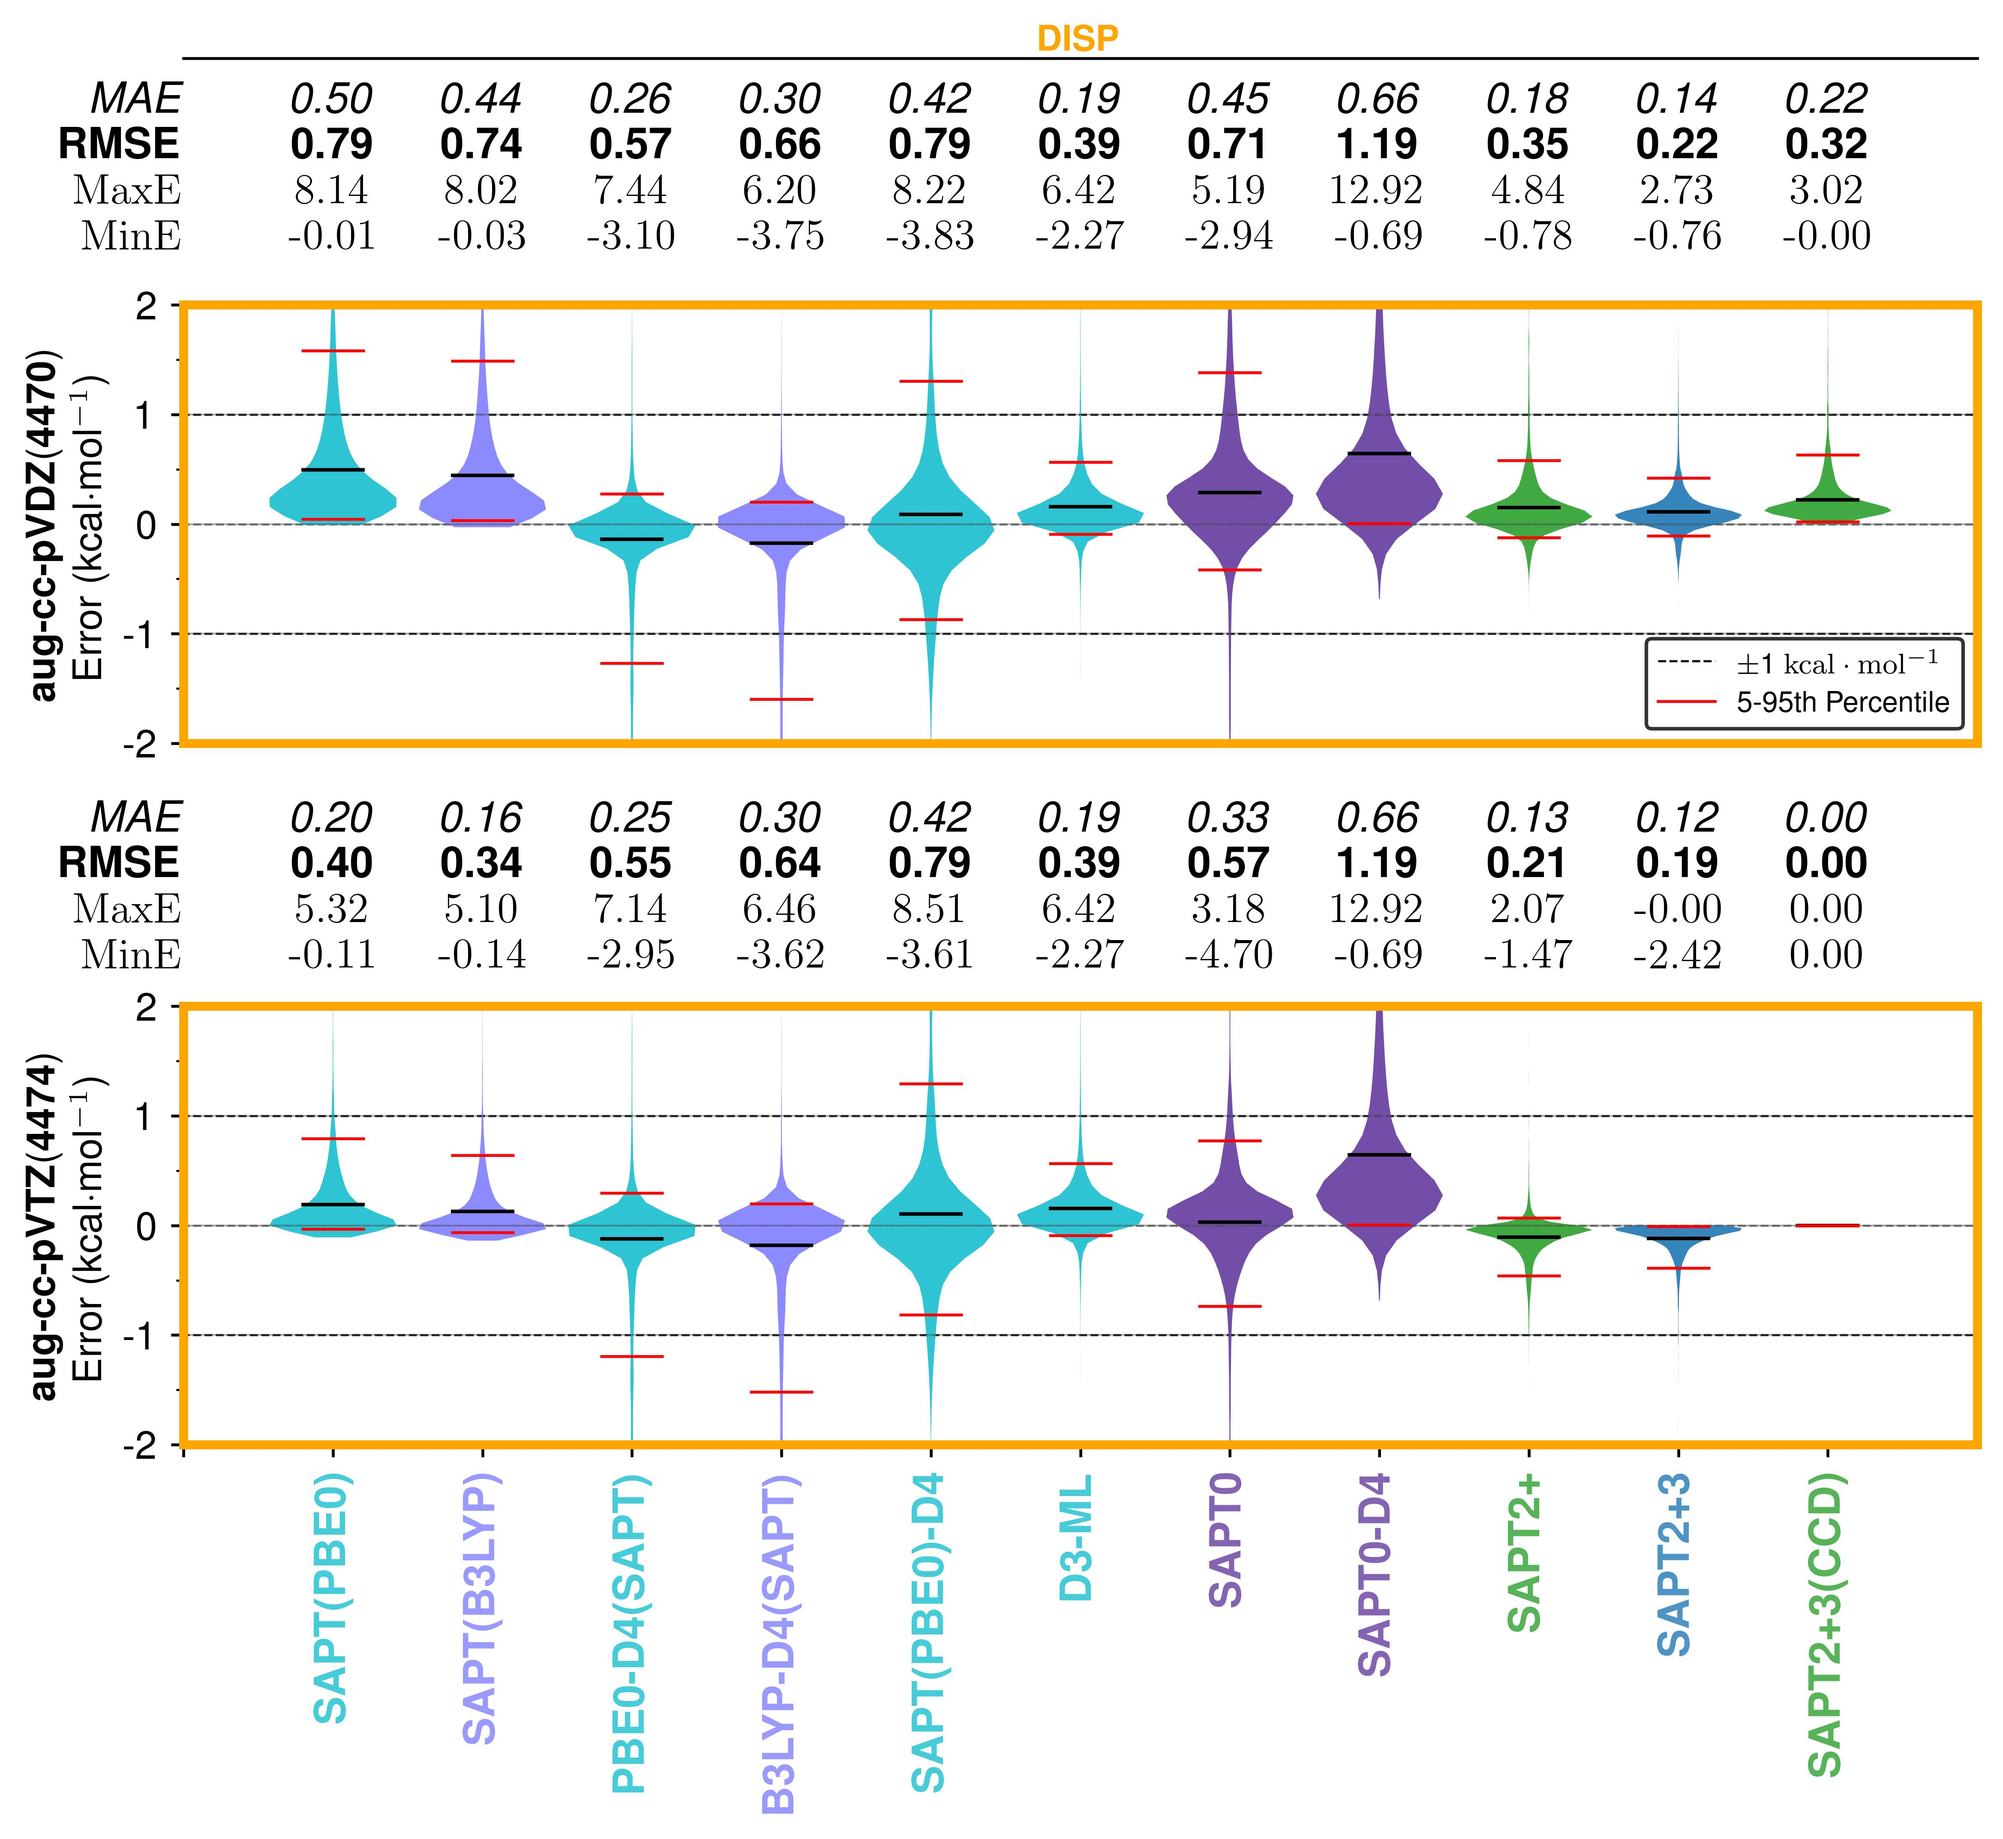
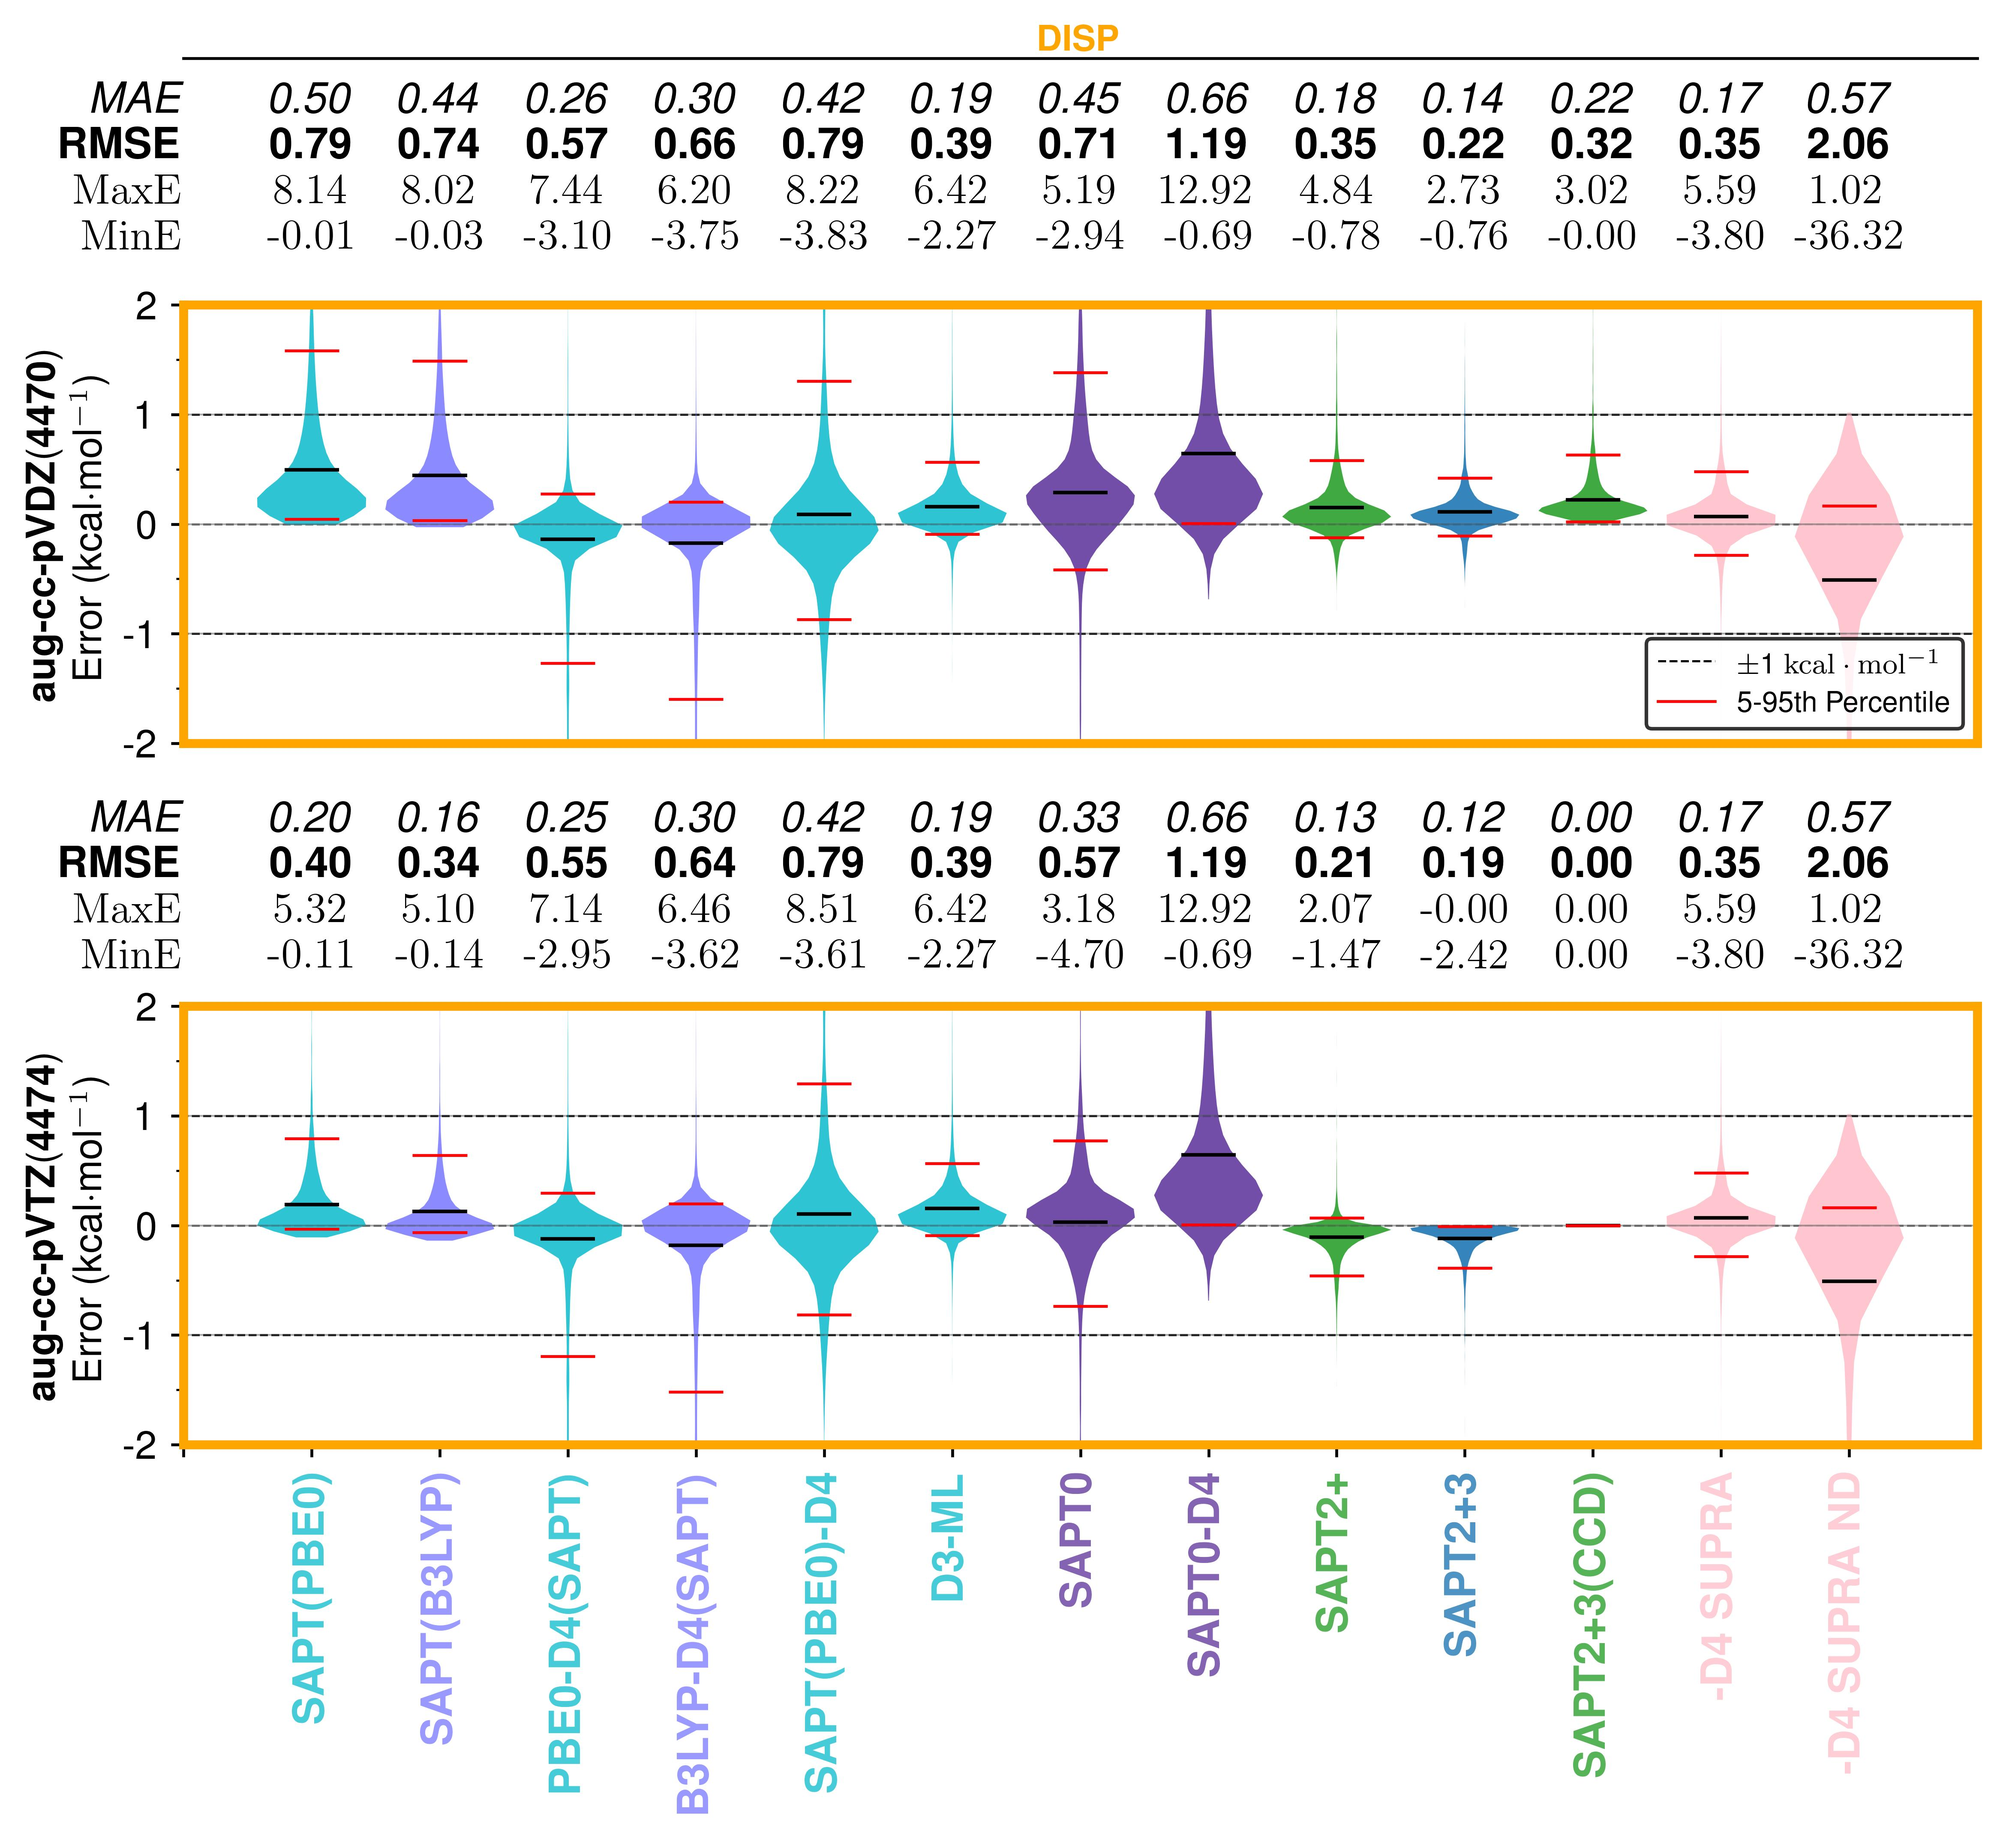
supra results

diff --git a/src/plotting.py b/src/plotting.py
@@ -264,6 +264,7 @@ def compute_d4_from_opt_params(
     for i in bases:
         params_d4 = params_dict[i[2]]
         params_2B, params_ATM = paramsTable.generate_2B_ATM_param_subsets(params_d4)
+        print(f"{i[2]} {params_2B = }")
         df[f"-D4 ({i[1]})"] = df.apply(
             lambda row: disp_compute(
                 row,
@@ -2173,16 +2174,58 @@ def plotting_setup_dft_ddft(
             df,
             bases=[
                 [
-                    "SAPT_DFT_pbe0_aqz_total",
-                    "SAPT_DFT_aqz_plus_D4",
-                    "SAPT_DFT_pbe0_atz_disp_targeting_SAPT2+3(CCD)dMP2",
-                    "SAPT_DFT_pbe0_aqz_total",
+                    "SAPT_DFT_pbe0_adz_total",
+                    "SAPT_DFT_pbe0_adz_3_IE_NO_DAMPING",
+                    "SAPT_DFT_pbe0_adz_3_IE",
+                    # "pbe0",
+                    "SAPT_DFT_pbe0_adz_3_IE",
                 ],
             ],
             benchmark_label="benchmark ref energy",
             disp_compute=locald4.compute_disp_2B_NO_DAMPING,
         )
-        print(df[["SAPT_DFT_pbe0_aqz_total", "SAPT_DFT_aqz_plus_D4"]])
+        df = compute_d4_from_opt_params(
+            df,
+            bases=[
+                [
+                    "SAPT0_adz",
+                    "HF",
+                    "HF",
+                    "SAPT0_adz",
+                ],
+                [
+                    "SAPT0_adz",
+                    "HF_ATM",
+                    "HF_ATM",
+                    "SAPT0_adz",
+                ],
+            ],
+            benchmark_label="benchmark ref energy",
+            disp_compute=locald4.compute_disp_2B_BJ_ATM_CHG_dimer,
+        )
+        df = compute_d4_from_opt_params(
+            df,
+            bases=[
+                [
+                    "SAPT_DFT_pbe0_adz_total",
+                    "SAPT_DFT_pbe0_adz_3_IE_supra",
+                    "SAPT_DFT_pbe0_adz_3_IE_supra",
+                    # "pbe0",
+                    "SAPT_DFT_pbe0_adz_3_IE",
+                ],
+                [
+                    "SAPT_DFT_pbe0_adz_total",
+                    "SAPT_DFT_pbe0_adz_3_IE_supra_NO_DAMPING",
+                    "SAPT_DFT_pbe0_adz_3_IE_supra_NO_DAMPING",
+                    # "pbe0",
+                    "SAPT_DFT_pbe0_adz_3_IE",
+                ],
+            ],
+            benchmark_label="benchmark ref energy",
+            disp_compute=locald4.compute_disp_2B_BJ_dimer_supra,
+        )
+        print(df[["-D4 (SAPT_DFT_pbe0_adz_3_IE_NO_DAMPING)"]])
+        # df.to_pickle(df_out)
     # plot_violin_SAPT0_DFT_components(
     if original_plot:
         plot_violin_SAPT0_DFT_components(
@@ -4179,6 +4222,7 @@ def violin_plots_multi(df, limit_to_column_not_nan=None, slide=True):
         "SAPT(B3LYP)D3-ML TOTAL ENERGY",
         "SAPT(DFT)-D4 TOTAL ENERGY",
         "SAPT(DFT)+D4 TOTAL ENERGY",
+        "SAPT(DFT)-D4 SUPRA TOTAL ENERGY",
     ]
     reference = "benchmark ref energy"
     copy_cols_start = [
@@ -4318,6 +4362,7 @@ def violin_plots_multi(df, limit_to_column_not_nan=None, slide=True):
         "SAPT2+3": "SAPT2+3 TOTAL ENERGY Error",
         "SAPT2+3(CCD)": "SAPT2+3(CCD) TOTAL ENERGY Error",
         "SAPT2+3(CCD)DMP2": "SAPT2+3(CCD)DMP2 TOTAL ENERGY Error",
+        "SAPT(PBE0)-D4 SUPRA": "SAPT(DFT)-D4 SUPRA TOTAL ENERGY Error",
         # "SAPT2+(CCD)DMP2": "SAPT2+(CCD)DMP2 TOTAL ENERGY Error",
         # "SAPT2+(3)(CCD)DMP2": "SAPT2+(3)(CCD)DMP2 TOTAL ENERGY Error",
         # "MP2": "MP2 IE Error",
@@ -6172,6 +6217,8 @@ def violin_plots_multi_components(df, limit_to_column_not_nan=None, slide=False)
         "D3-ML DISP ENERGY",
         "SAPT(DFT)+D4 DISP ENERGY",
         "SAPT(DFT)-D4 DISP ENERGY",
+        "SAPT(DFT)-D4 SUPRA DISP ENERGY",
+        "SAPT(DFT)-D4 SUPRA ND DISP ENERGY",
     ]
     sapt_reference = {
         # "ELST": "SAPT2+3(CCD)DMP2 ELST ENERGY",
@@ -6403,6 +6450,13 @@ def violin_plots_multi_components(df, limit_to_column_not_nan=None, slide=False)
         {
             "SAPT(DFT)-D4": "SAPT(DFT)-D4 DISP ENERGY Error",
         },
+        {
+            "SAPT(DFT)-D4(SUPRA)": "SAPT(DFT)-D4 SUPRA DISP ENERGY Error",
+        },
+        {
+            "SAPT(DFT)-D4(SUPRA ND)": "SAPT(DFT)-D4 SUPRA ND DISP ENERGY Error",
+        },
+
     ]
     mcure_labels = {
         "ELST": {},
@@ -6577,6 +6631,8 @@ def violin_plots_multi_components(df, limit_to_column_not_nan=None, slide=False)
             # "SAPT2+(CCD)": "SAPT2+(CCD) DISP ENERGY Error",
             # "SAPT2+(3)(CCD)": "SAPT2+(3)(CCD) DISP ENERGY Error",
             "SAPT2+3(CCD)": "SAPT2+3(CCD) DISP ENERGY Error",
+            "-D4 SUPRA": "SAPT(DFT)-D4 SUPRA DISP ENERGY Error",
+            "-D4 SUPRA ND": "SAPT(DFT)-D4 SUPRA ND DISP ENERGY Error",
         },
         colors=colors_disp_saptdftd4,
         usetex=True,
@@ -8532,11 +8588,7 @@ def d3ml_saptdft(df, functional='b3lyp'):
         df[f"SAPT({functional.upper()})D3-ML TOTAL ENERGY {i}"] /= h2kcalmol
     return df
 
-def plot_LoS_saptdft(
-    df,
-    presentation=False,
-):
-    print(f"{presentation = }")
+def d4_conversions(df):
     df["SAPT0-D4 TOTAL ENERGY adz"] = df.apply(
         lambda r: ((r["SAPT0_adz_3_IE"] + r["-D4 (SAPT0_adz_3_IE)"]) / h2kcalmol),
         axis=1,
@@ -8549,6 +8601,21 @@ def plot_LoS_saptdft(
         lambda r: ((r["SAPT0_atz_3_IE"] + r["-D4 (SAPT0_atz_3_IE)"]) / h2kcalmol),
         axis=1,
     )
+    df['SAPT(DFT)-D4 SUPRA DISP ENERGY adz'] = df['SAPT(DFT)-D4 SUPRA DISP ENERGY'] / h2kcalmol
+    df['SAPT(DFT)-D4 SUPRA DISP ENERGY atz'] = df['SAPT(DFT)-D4 SUPRA DISP ENERGY'] / h2kcalmol
+    df['SAPT(DFT)-D4 SUPRA ND DISP ENERGY adz'] = df['SAPT(DFT)-D4 SUPRA ND DISP ENERGY'] / h2kcalmol
+    df['SAPT(DFT)-D4 SUPRA ND DISP ENERGY atz'] = df['SAPT(DFT)-D4 SUPRA ND DISP ENERGY'] / h2kcalmol
+# SAPT_DFT_{functional}_{basis_set}_3_IE
+    df['SAPT(DFT)-D4 SUPRA TOTAL ENERGY adz'] = df['SAPT(DFT)-D4 SUPRA DISP ENERGY'] / h2kcalmol + df['SAPT_DFT_pbe0_adz_3_IE'] / h2kcalmol
+    df['SAPT(DFT)-D4 SUPRA TOTAL ENERGY atz'] = df['SAPT(DFT)-D4 SUPRA DISP ENERGY'] / h2kcalmol + df['SAPT_DFT_pbe0_atz_3_IE'] / h2kcalmol
+    return df
+
+def plot_LoS_saptdft(
+    df,
+    presentation=False,
+):
+    print(f"{presentation = }")
+    df = d4_conversions(df)
     conv = [
         # PBE0
         "SAPT_DFT_D4_pbe0_adz_total",
@@ -8612,8 +8679,9 @@ def plot_LoS_saptdft(
         # return
         # return
         violin_plots_multi(df)
-        violin_plots_multi_subset(df)
+        return
         violin_plots_multi_components(df, limit_to_column_not_nan="D3-ML")
+        violin_plots_multi_subset(df)
         violin_plots_multi_components_subset(df, limit_to_column_not_nan="D3-ML")
         # return
         return

diff --git a/plot_saptdft.py b/plot_saptdft.py
@@ -40,6 +40,42 @@ def main():
         split_components=True,
         original_plot=False,
     )
+    print(
+        df[
+            [
+                # "-D4 (HF)",
+                # "-D4 (HF_ATM)",
+                "-D4 (SAPT_DFT_pbe0_adz_3_IE_NO_DAMPING)",
+                "-D4 (SAPT_DFT_pbe0_adz_3_IE)",
+            ]
+        ]
+    )
+    print(
+        df[
+            [
+                # "-D4 (HF)",
+                # "-D4 (HF_ATM)",
+                "-D4 (SAPT_DFT_pbe0_adz_3_IE_supra_NO_DAMPING)",
+                "-D4 (SAPT_DFT_pbe0_adz_3_IE_supra)",
+            ]
+        ]
+    )
+    # print(df.columns.values.tolist())
+    df['SAPT2+3(CCD) DISP ENERGY atz kcal'] = df['SAPT2+3(CCD) DISP ENERGY atz'] * h2kcalmol
+    print(
+        df[
+            [
+                "-D4 (HF)",
+                "-D4 (HF_ATM)",
+                "SAPT2+3(CCD) DISP ENERGY atz kcal"
+                # "-D4 (SAPT_DFT_pbe0_adz_3_IE_NO_DAMPING)",
+                # "-D4 (SAPT_DFT_pbe0_adz_3_IE)",
+            ]
+        ]
+    )
+    df['SAPT(DFT)-D4 SUPRA DISP ENERGY'] = df['-D4 (SAPT_DFT_pbe0_adz_3_IE_supra)']
+    df['SAPT(DFT)-D4 SUPRA ND DISP ENERGY'] = df['-D4 (SAPT_DFT_pbe0_adz_3_IE_supra_NO_DAMPING)']
+    # return
     # pp(df.columns.tolist())
     # return
     # src.plotting.plot_components_sapt0_saptdft(df)

diff --git a/src/paramsTable.py b/src/paramsTable.py
@@ -614,6 +614,18 @@ def paramsDict() -> {}:
                 [1.0, 1.19927447, 0.89007478, 0.10318306, 0.0],
             ]
         ),
+        "SAPT_DFT_pbe0_adz_3_IE_supra": np.array(
+            [
+                [1.0, 0.89529649, -0.82043591, 0.03264695, 0.0],
+                [1.0, 0.89529649, -0.82043591, 0.03264695, 0.0],
+            ]
+        ),
+        "SAPT_DFT_pbe0_adz_3_IE_supra_NO_DAMPING": np.array(
+            [
+                [1.0, 0.89529649, 0.0, 0.0, 0.0],
+                [1.0, 0.89529649, 0.0, 0.0, 0.0],
+            ]
+        ),
         "pbe": [1.0000, 3.64405246, 0.52905620, 4.11311891, 0.0],
         "pbe0": [1.0000, 1.20065498, 0.40085597, 5.02928789, 1.0],
         "b3lyp": [1.0000, 2.02929367, 0.40868035, 4.53807137, 1.0],
@@ -785,7 +797,6 @@ def generate_2B_ATM_param_subsets(
             [params[0], params[1], params[2], params[3], s9], dtype=np.float64
         )
     elif len(params) == 3:
-
         params_2B = np.array(
             [1.0, params[0], params[1], params[2], s9], dtype=np.float64
         )

diff --git a/src/locald4.py b/src/locald4.py
@@ -639,21 +639,17 @@ def compute_disp_2B_NO_DAMPING(
     charges = r["charges"]
     pA, cA = pos[monAs], carts[monAs, :]
     pB, cB = pos[monBs], carts[monBs, :]
-    e_total = disp.disp_2B_NO_DAMPING(
+    e_total = disp.disp_2B_dimer_NO_DAMPING(
         pos,
         carts,
         r["C6s"],
-        r["C6_ATM"],
         pA,
         cA,
         r["C6_A"],
-        r["C6_ATM_A"],
         pB,
         cB,
         r["C6_B"],
-        r["C6_ATM_B"],
         params_2B,
-        params_ATM,
     )
     return e_total * mult_out
 
